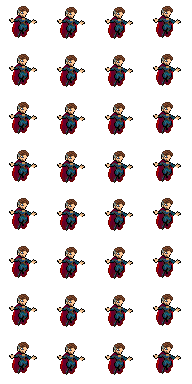
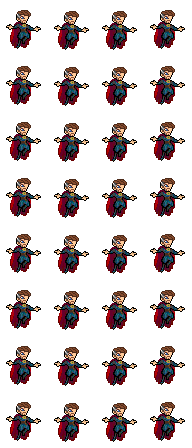
Strange: usa los modelos de Santi a tamaño original, sin achicar
Cuadro de 48×56 para que entren los brazos de la ulti.

Claude-Session: https://claude.ai/code/session_01NKXfdGR8G1iTrYkbieCHGV

diff --git a/src/characters/heroDefinitions.ts b/src/characters/heroDefinitions.ts
@@ -137,10 +137,11 @@ export const strangeDefinition: CharacterDefinition = {
   id: STRANGE_ID,
   displayName: 'Doctor Strange',
   rarity: 'epic',
-  weaponText: 'Aura de runas: daña seguido a todo lo que se acerca. Ulti: tiempo detenido',
-  frame: FRAME,
-  origin: ORIGIN,
-  body: BODY,
+  weaponText: 'Aura de runas que daña a los cercanos. Ulti: tiempo detenido',
+  // Dibujo de Santi a tamaño original: cuadro de 48×56, suelo en (24, 51) y el cuerpo flota 3 px.
+  frame: { width: 48, height: 56 },
+  origin: { x: 0.5, y: 51 / 56 },
+  body: { width: 10, height: 8, offsetX: 19, offsetY: 47 },
   stats: {
     moveSpeed: 80,
     maxHealth: 95,

diff --git a/CLAUDE.md b/CLAUDE.md
@@ -26,7 +26,7 @@ Juego web 2D estilo Vampire Survivors con héroes de Marvel. Lo desarrolla un eq
 - Fase 7 (hecha): héroes y menú. 5 héroes jugables con arma propia (`AttackKind` en `CharacterDefinition`, lógica en `AutoAttackSystem`): Iron Man (repulsor, común), Capitán América (escudo que vuelve y atraviesa, común), Spider-Man (telarañas que frenan, raro), Thor (rayos en área, épico), Hulk (zarpazo en abanico fino cuerpo a cuerpo, legendario). Definiciones en `src/characters/heroDefinitions.ts` y `registry.ts`; sprites provisionales de `tools/generate-sprites.mjs` (`HEROES`). Menú con PERSONAJES (`CharacterScene`, elegir héroe o comprarlo; el elegido se guarda), MEJORAS. No hay gacha: la primera vez que se entra se regala un héroe común al azar (`emptySave` en `saveData.ts`) y los demás se compran con oro en PERSONAJES (tocar dos veces para confirmar; precios por rareza en `HERO_SHOP` de `gameplayConfig.ts`: 300 / 800 / 2000 / 5000). Algunas mejoras del ataque básico no salen según el arma (`basicKind`: sin perforación en escudo/rayo/onda, sin disparo múltiple en la onda).
 - Armas exclusivas por héroe (`exclusiveTo` en `UpgradeDefinition`, `HERO_WEAPONS` en `src/systems/HeroWeapons.ts`, hasta nv 5): Iron Man = Minimisiles y su evolución en misiles incendiarios (solo él); Capitán = Escudos orbitales; Spider-Man = Trampas de telaraña; Thor = Tormenta de rayos; Hulk = Onda de choque. El ataque básico de Hulk es un abanico fino (`fan`, `arcDegrees`) que crece con Abanico ancho y Brazos largos (solo Hulk), Alcance (pasiva) y Disparo múltiple (más zarpazos repartidos alrededor). La pasiva "Velocidad" (ex Propulsores) sube la velocidad de movimiento.
 - Interfaz: tipografía Montserrat (paquete `@fontsource/montserrat`, se carga en `src/main.ts`) y estilo de vidrio oscuro con borde celeste (`UiButton` con opción `primary`, `drawPanel`). Desde la pausa, MENÚ PRINCIPAL no pierde la ronda: GameScene y HudScene quedan dormidas (`RUN_ACTIVE_KEY` en el registro) y el menú muestra CONTINUAR y ABANDONAR RONDA.
-- Doctor Strange (épico, 2000 oro): flota como Iron Man y se dibuja siempre de frente (las 8 filas del sprite son iguales, sin espalda; calcado de las 2 referencias de Santi (cuerpo con 2 brazos y con los 6 brazos) en `tools/hero-trace-strange.mjs`, 38 de alto, pies en la fila 37). Ataque `aura` (`AttackKind`): círculo de runas (`AuraVisual`, texturas `aura-outer/inner.png`) que daña cada 500 ms a todo lo que entra; el radio crece con Área y Alcance; no sale Disparo múltiple. Ulti "Tiempo detenido" (`TimeStopUltimate`, tecla E / botón ULT): 4 s congelan a todos los enemigos (`Enemy.freeze/thaw`), el daño recibido se acumula y se descarga al soltar; mientras dura le salen los 6 brazos extra (`strange-arms.png`, calcados de la 2.ª referencia) y se frenan disparos enemigos y ataques del jefe. Enfriamiento 45 s. El HUD muestra el botón de ulti para Iron Man (vuelo, en `GameScene`) y para Strange (`GameScene.hasUltimate()`). Sin arma secundaria exclusiva por ahora.
+- Doctor Strange (épico, 2000 oro): flota como Iron Man y se dibuja siempre de frente (las 8 filas del sprite son iguales, sin espalda; calcado de las 2 referencias de Santi (cuerpo con 2 brazos y con los 6 brazos) en `tools/hero-trace-strange.mjs`, a tamaño original sin achicar, cuadro de 48×56). Ataque `aura` (`AttackKind`): círculo de runas (`AuraVisual`, texturas `aura-outer/inner.png`) que daña cada 500 ms a todo lo que entra; el radio crece con Área y Alcance; no sale Disparo múltiple. Ulti "Tiempo detenido" (`TimeStopUltimate`, tecla E / botón ULT): 4 s congelan a todos los enemigos (`Enemy.freeze/thaw`), el daño recibido se acumula y se descarga al soltar; mientras dura le salen los 6 brazos extra (`strange-arms.png`, calcados de la 2.ª referencia) y se frenan disparos enemigos y ataques del jefe. Enfriamiento 45 s. El HUD muestra el botón de ulti para Iron Man (vuelo, en `GameScene`) y para Strange (`GameScene.hasUltimate()`). Sin arma secundaria exclusiva por ahora.
 - Pendiente / fuera de alcance por ahora: enemigos a distancia, habilidades únicas por héroe (además del arma), más héroes (objetivo: 10, hoy 5) y mapas.
 - Verificado en el navegador (`npm run dev`, con el juego avanzado cuadro por cuadro y eventos simulados): pantalla de VICTORIA, pantalla de DERROTA, botón "Volver al menú" (desde las dos; la ronda siguiente arranca de cero) y joystick con `?joystick` (8 direcciones, diagonal a la misma velocidad, se frena al soltar, ignora la mitad derecha).
 - Verificado en el navegador (Fase 7): menú, PERSONAJES y una partida con cada uno de los 4 héroes nuevos (sus armas matan enemigos y rompen cajas, sin errores); regalo del primer héroe al azar, que se conserve al recargar, y compra con doble toque (descuenta el oro y elige al héroe).
@@ -40,6 +40,6 @@ Juego web 2D estilo Vampire Survivors con héroes de Marvel. Lo desarrolla un eq
 - Oro y progreso permanente: `src/meta/` (guardado, mejoras permanentes) · balance del oro en `GOLD`, `BREAKABLE_PROPS` y `META` de `gameplayConfig.ts`
 - Interfaz: `src/ui/` (`UiButton`, `UpgradeCard`, `drawPanel` y escalas en `uiLayout.ts`)
 - Héroes: `src/characters/` (registro en `registry.ts`, rarezas en `rarity.ts`; para sumar uno: definición + sprites en `HEROES` del generador + entrada en el registro; su precio sale de su `rarity`) · Escenas: `src/scenes/` (Boot, Menu, Game, Hud)
-- Arte de héroes: Iron Man sale de `tools/ironman-reference.mjs`; Capitán y Thor están calcados de las imágenes de referencia de Santi (`tools/hero-trace-*.mjs`, 40 de alto, un solo dibujo que se espeja según hacia dónde mira el original (`DRAWN_FACES_LEFT`: Hulk y Spider-Man miran a la izquierda; Capitán, Thor e Iron Man a la derecha; quieto todos miran a la derecha; Strange no se espeja: siempre de frente); cuadros de 48×48, suelo en (24, 41), `DRAWN_HEROES` en el generador); Spider-Man y Hulk también (mismo método). Todos los héroes usan cuadros de 48×48.
+- Arte de héroes: Iron Man sale de `tools/ironman-reference.mjs`; Capitán y Thor están calcados de las imágenes de referencia de Santi (`tools/hero-trace-*.mjs`, 40 de alto, un solo dibujo que se espeja según hacia dónde mira el original (`DRAWN_FACES_LEFT`: Hulk y Spider-Man miran a la izquierda; Capitán, Thor e Iron Man a la derecha; quieto todos miran a la derecha; Strange no se espeja: siempre de frente); cuadros de 48×48 (Strange: 48×56), suelo en (24, 41), `DRAWN_HEROES` en el generador); Spider-Man y Hulk también (mismo método). Todos los héroes usan cuadros de 48×48.
 - Íconos de la tienda: `tools/meta-icons.mjs` (dibujados con código, 16×16), `tools/meta-icons-custom.mjs` (a mano, 16×16) y `tools/meta-icons-custom32.mjs` (a mano, 32×32); la hoja final usa cuadros de 32×32 (`SHEET_CELL`, `META_ITEM_SIZE`).
 - Detalles de sprites y cómo agregar animaciones o personajes: `README.md`
